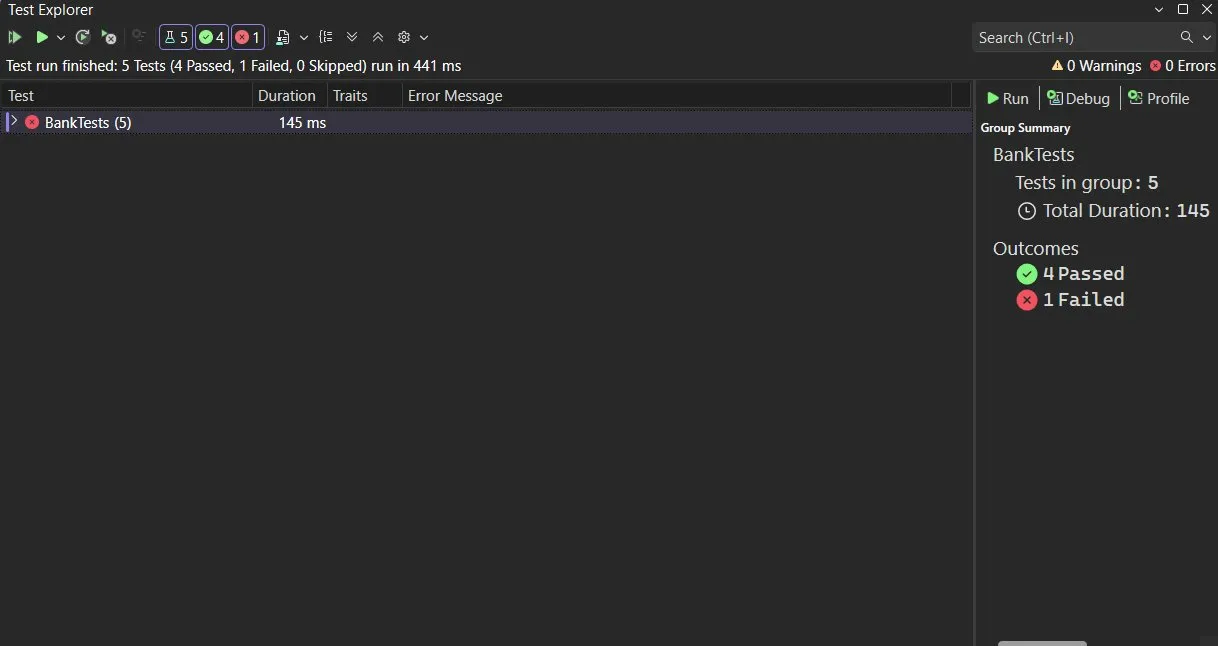
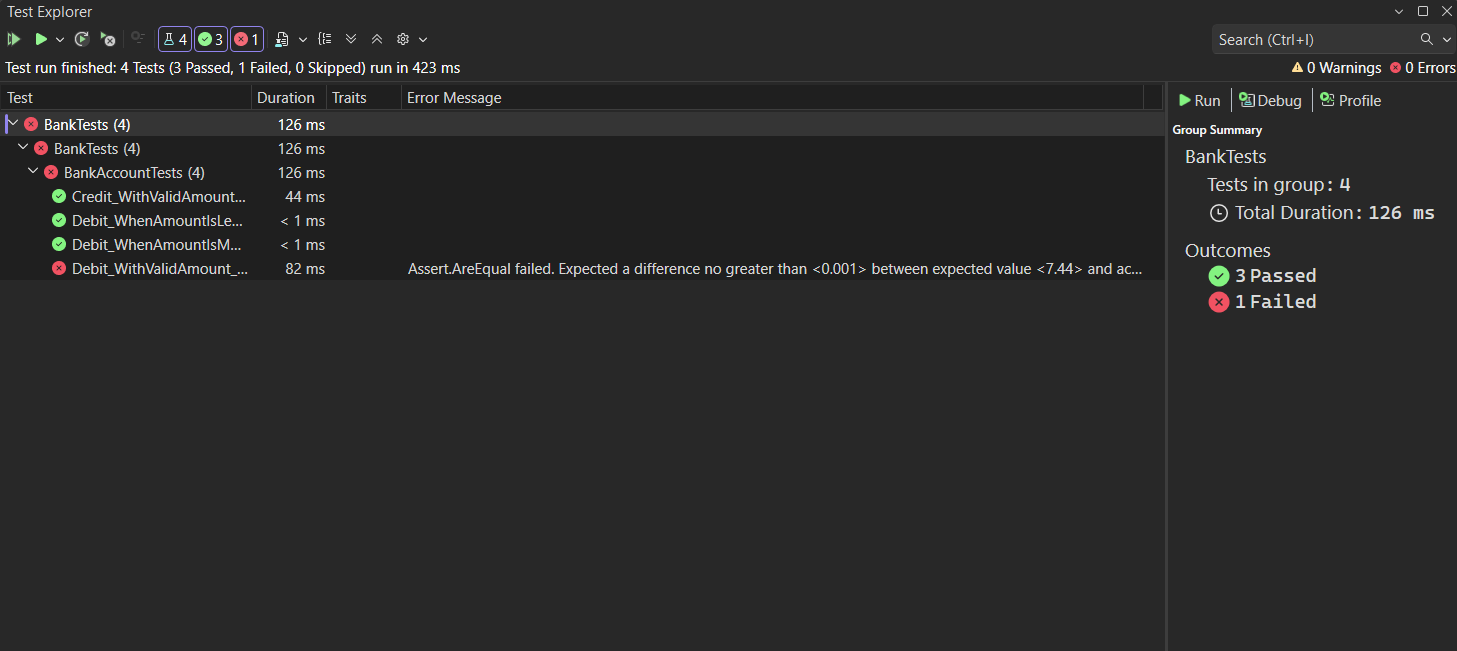
Update comments and pictures.

diff --git a/Bank/BankAccount.cs b/Bank/BankAccount.cs
@@ -3,14 +3,14 @@
 namespace BankAccountNS
 {
     /// <summary>
-    /// Класс банковского счёта. Позволяет выполнять операции дебета и кредита.
+    /// Bank account demo class.
     /// </summary>
     public class BankAccount
     {
         private readonly string m_customerName;
         private double m_balance;
 
-        // Константы для сообщений об ошибках (нужны для рефакторинга тестов)
+        // Рефакторинг тестируемого кода. Пункт 1.
         public const string DebitAmountExceedsBalanceMessage = "Debit amount exceeds balance";
         public const string DebitAmountLessThanZeroMessage = "Debit amount is less than zero";
 
@@ -30,7 +30,6 @@ namespace BankAccountNS
         /// <summary>
         /// Имя владельца счёта.
         /// </summary>
-        /// <value>Строка с именем клиента</value>
         public string CustomerName
         {
             get { return m_customerName; }
@@ -39,14 +38,13 @@ namespace BankAccountNS
         /// <summary>
         /// Текущий баланс счёта.
         /// </summary>
-        /// <value>Числовое значение баланса</value>
         public double Balance
         {
             get { return m_balance; }
         }
 
         /// <summary>
-        /// Снимает денежные средства со счёта (дебет).
+        /// Снимает денежные средства со счёта.
         /// </summary>
         /// <param name="amount">Сумма для снятия</param>
         /// <exception cref="ArgumentOutOfRangeException">
@@ -54,6 +52,7 @@ namespace BankAccountNS
         /// </exception>
         public void Debit(double amount)
         {
+            // Рефакторинг тестируемого кода. Пункт 2.
             if (amount > m_balance)
             {
                 throw new ArgumentOutOfRangeException("amount", amount, DebitAmountExceedsBalanceMessage);
@@ -62,11 +61,12 @@ namespace BankAccountNS
             {
                 throw new ArgumentOutOfRangeException("amount", amount, DebitAmountLessThanZeroMessage);
             }
-            m_balance -= amount; // ← исправленная строка (было +=, это баг!)
+            // Создание и запуск метода теста. Пункт 3.
+            m_balance -= amount;
         }
 
         /// <summary>
-        /// Зачисляет денежные средства на счёт (кредит).
+        /// Зачисляет денежные средства на счёт.
         /// </summary>
         /// <param name="amount">Сумма для зачисления</param>
         /// <exception cref="ArgumentOutOfRangeException">

diff --git a/BankTests/BankAccountTests.cs b/BankTests/BankAccountTests.cs
@@ -6,8 +6,6 @@ namespace BankTests
     [TestClass]
     public class BankAccountTests
     {
-        // ─── Тесты метода Debit ───────────────────────────────────────────
-
         /// <summary>
         /// Проверяет, что при допустимой сумме баланс уменьшается правильно.
         /// </summary>
@@ -39,6 +37,7 @@ namespace BankTests
             double debitAmount = -100.00;
             BankAccount account = new BankAccount("Mr. Roman Abramovich", beginningBalance);
 
+            // Рефакторинг тестируемого кода. Пункт 3.
             // Act
             try
             {
@@ -80,7 +79,7 @@ namespace BankTests
             Assert.Fail("The expected exception was not thrown.");
         }
 
-        // ─── Тесты метода Credit (самостоятельное задание) ────────────────
+        // Рефакторинг тестируемого кода. Пункт 5.
 
         /// <summary>
         /// Проверяет, что при допустимой сумме баланс увеличивается правильно.
@@ -100,32 +99,6 @@ namespace BankTests
             // Assert
             double actual = account.Balance;
             Assert.AreEqual(expected, actual, 0.001, "Account not credited correctly");
-        }
-
-        /// <summary>
-        /// Проверяет, что при сумме кредита меньше нуля выбрасывается исключение.
-        /// </summary>
-        [TestMethod]
-        public void Credit_WhenAmountIsLessThanZero_ShouldThrowArgumentOutOfRange()
-        {
-            // Arrange
-            double beginningBalance = 11.99;
-            double creditAmount = -50.00;
-            BankAccount account = new BankAccount("Mr. Roman Abramovich", beginningBalance);
-
-            // Act
-            try
-            {
-                account.Credit(creditAmount);
-            }
-            catch (System.ArgumentOutOfRangeException e)
-            {
-                // Assert
-                StringAssert.Contains(e.Message, "Credit amount is less than zero");
-                return;
-            }
-
-            Assert.Fail("The expected exception was not thrown.");
         }
     }
 }
